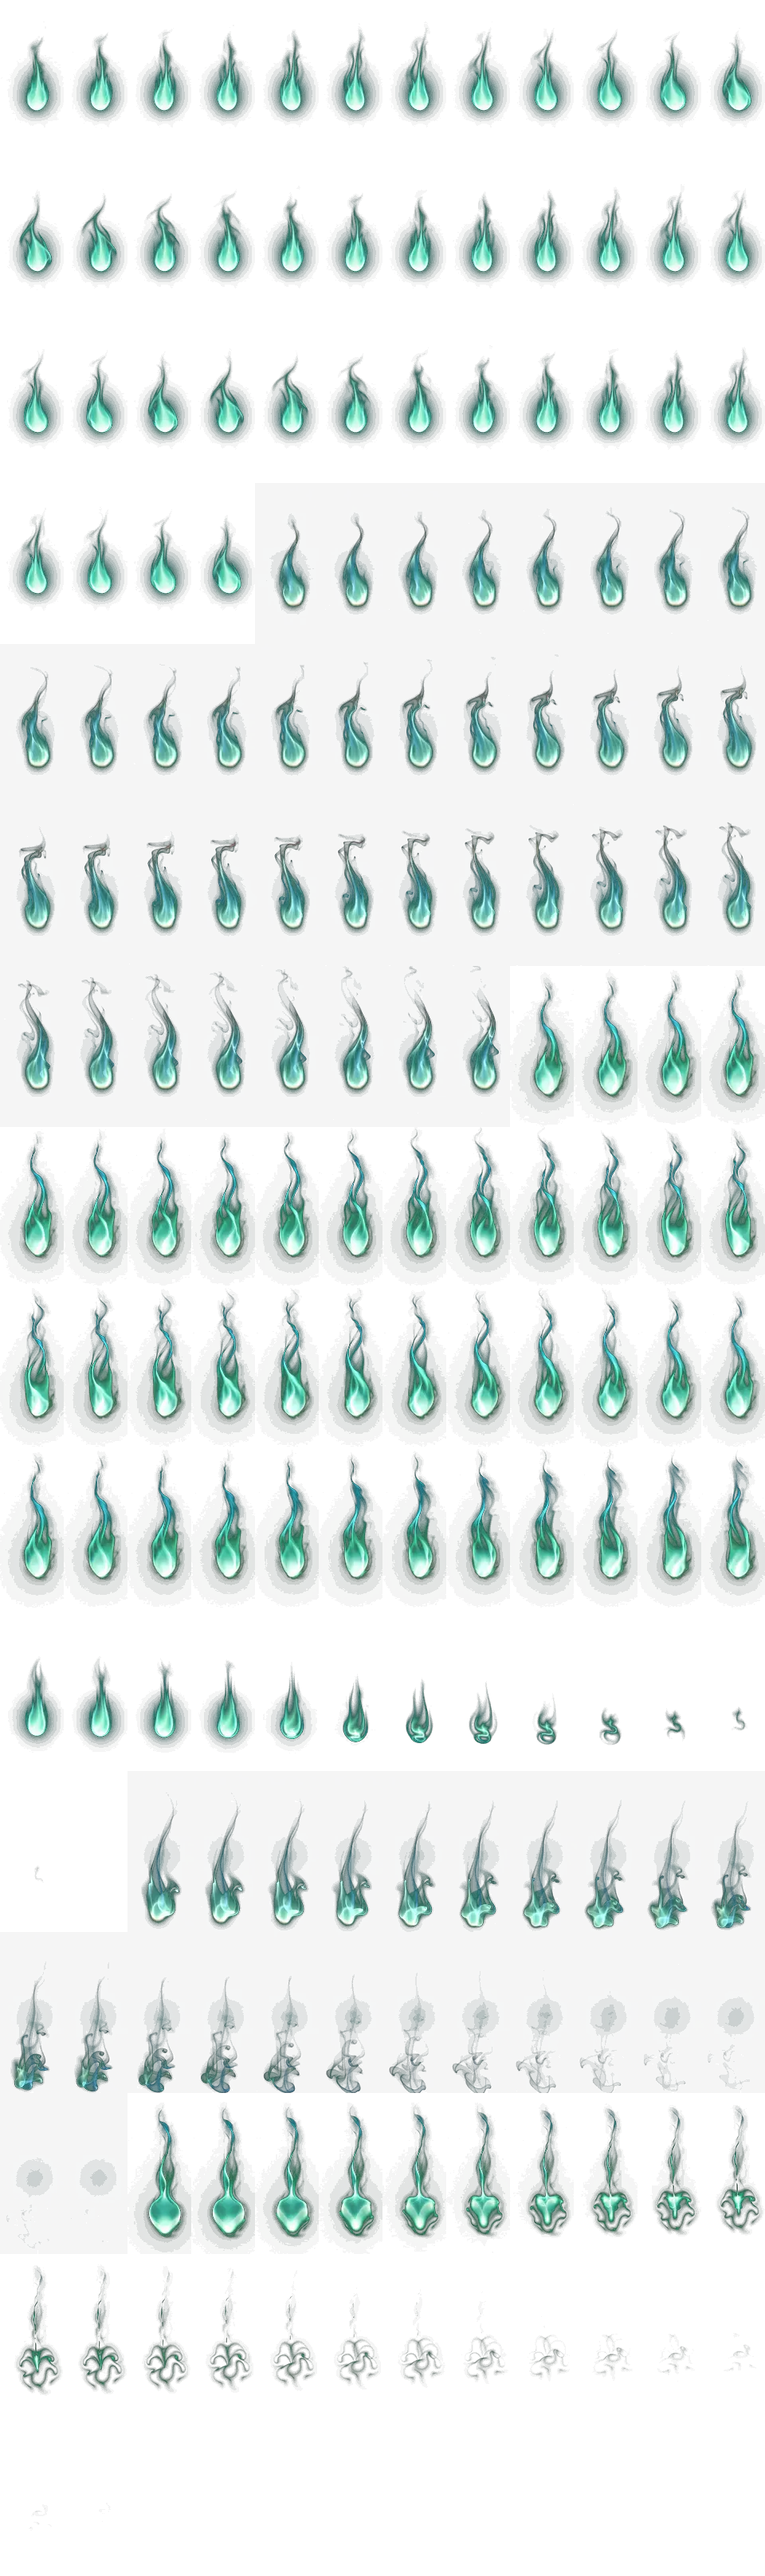
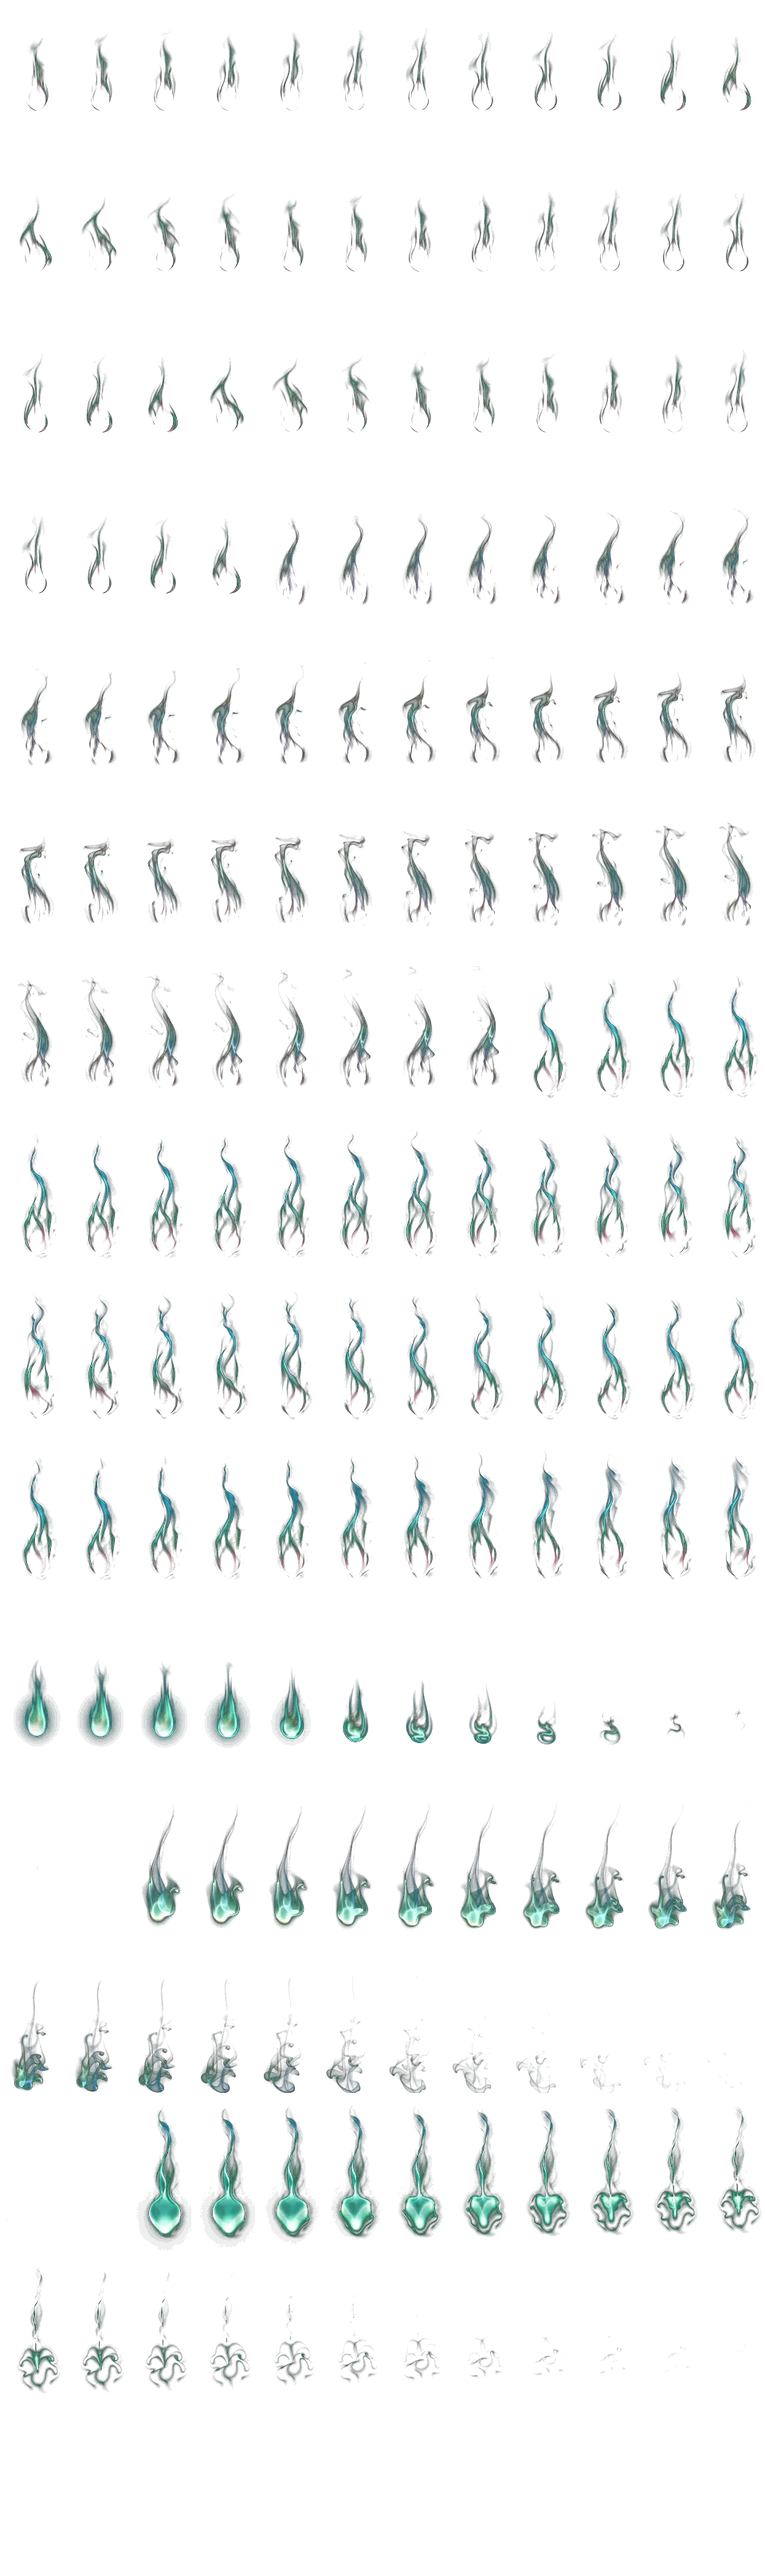
Flames: remove static grey haze from the clips; eyes on big screen/staff/player pages are rare, upper half only, away from flames and content
Claude-Session: https://claude.ai/code/session_01U3oHwuga7h99Y96FKvzDg

diff --git a/web/public/ghost-ambience.js b/web/public/ghost-ambience.js
@@ -97,11 +97,12 @@ class GhostAmbience extends HTMLElement{
         trail:login&&i<2?[]:null,trailT:0};}).sort((a,b)=>a.z-b.z);
     const slots=login?(this.mob?EYE_M:EYE_D):[];
     this.eyes=slots.map(([x,y,s,r])=>({nx:x,ny:y,s:s?s*.85:rnd(.8,1.15),red:s?!!r:Math.random()<.35,ang:0,sq:0,dw:0,near:false,tilt:rnd(.06,.16),state:'closed',open:0,t:0,hold:0,blink:0,lx:0,ly:0}));
-    if(login&&this.eyes.length&&this.dataset.ok!=='1'){const n0=this.mob?3:4;const pick=[];this.eyes.slice().sort(()=>Math.random()-.5).forEach(e=>{if(pick.length<n0&&!pick.some(o=>this.eyeHit(e,o)))pick.push(e);});pick.forEach(e=>{e.state='opening';e.open=-rnd(0,.45);e.t=0;e.hold=rnd(2.5,5);e.blink=rnd(.8,e.hold-.5);});}
+    if(this.mode==='login'&&this.eyes.length&&this.dataset.ok!=='1'){const n0=this.mob?3:4;const pick=[];this.eyes.slice().sort(()=>Math.random()-.5).forEach(e=>{if(pick.length<n0&&!pick.some(o=>this.eyeHit(e,o)))pick.push(e);});pick.forEach(e=>{e.state='opening';e.open=-rnd(0,.45);e.t=0;e.hold=rnd(2.5,5);e.blink=rnd(.8,e.hold-.5);});}
     this.fog=false?Array.from({length:this.mob?2:5},()=>({x:rnd(0,1),y:rnd(.84,1.02),rx:rnd(.25,.5),ry:rnd(40,90),sp:rnd(.006,.014),a:rnd(.05,.1)})):[];
     this.paper=[];
-    this.nextSpawn=rnd(.9,1.8);
+    this.nextSpawn=this.mode==='login'?rnd(.9,1.8):rnd(3,8);
   }
+  nearFlame(x,y){return this.flames.some(f=>f.phase!=='off'&&f.a>.05&&Math.hypot(f.x-x,f.y-f.size*2.5-y)<160);}
   eyeBox(e){const k=e.s*(this.mob?.82:1),w=150*k*.9,hh=150*k*119/256;return{x:e.nx*this.w,y:e.ny*this.h,w,h:hh};}
   eyeHit(a,b){const A=this.eyeBox(a),B=this.eyeBox(b);return Math.abs(A.x-B.x)<(A.w+B.w)/2+10&&Math.abs(A.y-B.y)<(A.h+B.h)/2+10;}
   keepRect(){const k=(this.dataset.keep||'').split(',').map(Number);return k.length===4&&!k.some(isNaN)?k:null;}
@@ -142,28 +143,30 @@ class GhostAmbience extends HTMLElement{
       for(const e of this.eyes){e.open=e2<.25?Math.min(1,e.open+dt/.18):e2<2.4?1:Math.max(0,e.open-dt/.25);}
       if(e2>2.7){this.errMode=false;this.eyes.forEach(e=>{e.state='closed';e.open=0;});this.nextSpawn=rnd(1.5,3);}
     }else{
-      const openCount=this.eyes.filter(e=>e.state!=='closed').length;
+      const openCount=this.eyes.filter(e=>e.state==='opening'||e.state==='open').length;
       const active=this.lastMove!=null&&this.t-this.lastMove<2.5; // the pointer is moving: more eyes wake up to watch it
       const R=Math.min(w,h)*.4,RF=R*1.6,chase=!!(this.target&&active); // while the pointer moves, only eyes within RF of it stay lit
       if(this.target&&this.mode==='login'&&!this.okMode){const T=this.target;
         if(!this.eyes.some(e=>e.state!=='closed'&&Math.hypot(e.nx*w-T.x,e.ny*h-T.y)<R)){this.wakeNear=(this.wakeNear||0)-dt;
           if(this.wakeNear<0){this.wakeNear=.8;let best=null,bd=R*1.8;for(const e of this.eyes){if(e.state!=='closed')continue;const d=Math.hypot(e.nx*w-T.x,e.ny*h-T.y);if(d<bd&&!this.eyes.some(o=>o!==e&&o.state!=='closed'&&this.eyeHit(e,o))){bd=d;best=e;}}
             if(best){best.state='opening';best.far=0;best.dw=0;best.t=0;best.hold=rnd(3,5);best.blink=rnd(1,2.5);best.lx=0;best.ly=0;}}}}
-      const maxOpen=Math.min(this.eyes.length,(this.mob?2:3)+Math.floor(this.len/(this.mob?3:2))+(active?(this.mob?3:5):0)+(this.dataset.more==='1'?2:0));
+      const calm=this.mode!=='login'; // big screen / staff / player pages: only an occasional pair, upper half, never on a flame
+      const maxOpen=calm?(active?2:1):Math.min(this.eyes.length,(this.mob?2:3)+Math.floor(this.len/(this.mob?3:2))+(active?(this.mob?3:5):0)+(this.dataset.more==='1'?2:0));
       this.nextSpawn-=dt;
       if(this.nextSpawn<0&&openCount<maxOpen){const c=this.eyes.filter(e=>e.state==='closed');
-        const c2=c.filter(e=>!this.inKeep(e.nx*w,e.ny*h,30)&&!this.eyes.some(o=>o!==e&&o.state!=='closed'&&this.eyeHit(e,o)));
+        const c2=c.filter(e=>!this.inKeep(e.nx*w,e.ny*h,30)&&!this.eyes.some(o=>o!==e&&o.state!=='closed'&&this.eyeHit(e,o))&&(!calm||(e.ny<.5&&!this.nearFlame(e.nx*w,e.ny*h))));
         if(c2.length&&this.dataset.free==='1'){const e=c2[0],k=e.s*(this.mob?.82:1)*36,T=Math.min(h-40,+(this.dataset.top||0))+30;let ok=false;
-          for(let i=0;i<20&&!ok;i++){const x=rnd(.06,.94)*w,y=rnd(T,h-30);if((!chase||Math.hypot(x-this.target.x,y-this.target.y)<RF)&&this.isFree(x,y)&&this.isFree(x-k,y)&&this.isFree(x+k,y)&&this.isFree(x-k*.5,y-9)&&this.isFree(x+k*.5,y+9)){e.nx=x/w;e.ny=y/h;ok=true;}}
+          for(let i=0;i<20&&!ok;i++){const x=rnd(.06,.94)*w,y=calm?rnd(T,Math.max(T+60,h*.5)):rnd(T,h-30);if((!calm||(!this.nearFlame(x,y)&&!this.inKeep(x,y,40)))&&(!chase||Math.hypot(x-this.target.x,y-this.target.y)<RF)&&this.isFree(x,y)&&this.isFree(x-k,y)&&this.isFree(x+k,y)&&this.isFree(x-k*.5,y-9)&&this.isFree(x+k*.5,y+9)){e.nx=x/w;e.ny=y/h;ok=true;}}
           if(!ok)c2.length=0;}
         if(chase&&this.dataset.free!=='1')c2.splice(0,c2.length,...c2.filter(p=>Math.hypot(p.nx*w-this.target.x,p.ny*h-this.target.y)<RF));
         if(c2.length){let e;if(this.target&&active){const px=this.target.x;const py=this.target.y,dd=p=>Math.hypot(p.nx*w-px,p.ny*h-py);const s2=c2.slice().sort((p,q)=>dd(p)-dd(q));e=s2[Math.floor(Math.random()*Math.min(2,s2.length))];} // eyes wake up on the side the pointer is on
           else e=c2[this.dataset.free==='1'?0:Math.floor(Math.random()*c2.length)];e.state='opening';e.far=0;e.dw=0;e.t=0;e.hold=rnd(2.2,4.2);e.blink=rnd(.5,e.hold-.4);e.lx=0;e.ly=0;}
-        this.nextSpawn=rnd(1.4,3.2)/(1+this.len*.3)/(active?4:1);}
+        this.nextSpawn=calm?rnd(7,16)/(active?2:1):rnd(1.4,3.2)/(1+this.len*.3)/(active?4:1);}
       for(const e of this.eyes){
         if(e.state==='opening'){e.open+=dt*3;if(e.open>=1){e.open=1;e.state='open';e.t=0;}}
         else if(e.state==='open'){e.t+=dt;if(this.target){const dist=Math.hypot(e.nx*w-this.target.x,e.ny*h-this.target.y);e.near=dist<R;
-          if(e.near){e.hold=Math.max(e.hold,e.t+1.5);e.dw+=dt;} // the pointer is close: keep staring, and squint the longer it stays
+          if(calm&&this.nearFlame(e.nx*w,e.ny*h))e.hold=Math.min(e.hold,e.t+.3);
+          if(e.near&&!calm){e.hold=Math.max(e.hold,e.t+1.5);e.dw+=dt;} // the pointer is close: keep staring, and squint the longer it stays
           else{e.dw=Math.max(0,e.dw-dt*2);if(active&&dist>RF&&!e.far){e.far=1;e.hold=Math.min(e.hold,e.t+.2);}}}
         else{e.near=false;e.dw=0;}
         if(this.len>0&&e.sq>.1)e.hold=Math.max(e.hold,e.t+1.5); // typing a PIN: eyes that are squinting keep watching
